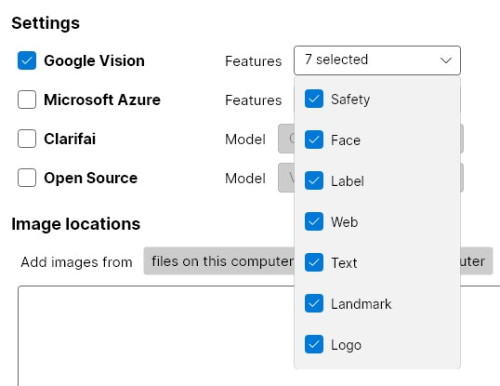
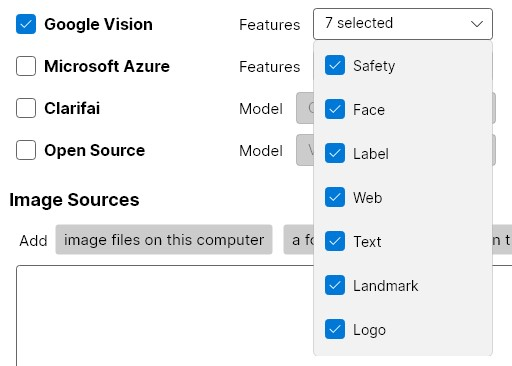
improved memory utilisation by not requiring all locations shown in textbox

diff --git a/Memespector-GUI/MainWindowViewModel.cs b/Memespector-GUI/MainWindowViewModel.cs
@@ -63,8 +63,8 @@ namespace Memespector_GUI
         private bool isOpenSourceEnabled = Utilities.MemespectorConfig.SelectedOpenSource;
         public bool IsOpenSourceEnabled { get => isOpenSourceEnabled; set => this.RaiseAndSetIfChanged(ref isOpenSourceEnabled, value); }
 
-        private string imageFileLocations = string.Empty;
-        public string ImageFileLocations { get => imageFileLocations; set => this.RaiseAndSetIfChanged(ref imageFileLocations, value); }
+        private string imageSources = string.Empty;
+        public string ImageSources { get => imageSources; set => this.RaiseAndSetIfChanged(ref imageSources, value); }
         private string outputJsonFileLocation = string.Empty;
         public string OutputJsonFileLocation { get => outputJsonFileLocation; set => this.RaiseAndSetIfChanged(ref outputJsonFileLocation, value); }
         private string outputCsvFileLocation = string.Empty;
@@ -102,9 +102,9 @@ namespace Memespector_GUI
             Utilities.WriteConfig(config);
         }
 
-        private void cleanimageFileLocationList()
+        private void cleanImageSourceList()
         {
-            ImageFileLocations = string.Join(Environment.NewLine, imageFileLocations.Split(Environment.NewLine).Select(l => l.Trim()).Distinct().Where(l => (Utilities.IsFilePath(l) || Utilities.IsUrl(l)) && !string.IsNullOrEmpty(l)));
+            ImageSources = string.Join(Environment.NewLine, imageSources.Split(Environment.NewLine).Select(l => l.Trim()).Distinct().Where(l => (Utilities.IsFilePath(l) || Utilities.IsFolderPath(l) || Utilities.IsUrl(l)) && !string.IsNullOrEmpty(l)));
         }
 
         private void doOpenExternal(string parameter)
@@ -119,7 +119,7 @@ namespace Memespector_GUI
         {
             if (parameter == "WebImages")
             {
-                Utilities.ShowInfoDialog("Add images from the web", $"Please copy the URLs of the images and paste them into the box.{Environment.NewLine + Environment.NewLine}Please put one URL per line.  You may press ENTER to create a new line.", Parent);
+                Utilities.ShowInfoDialog("Add images from the web", $"If you are going to add hundreds or even thousands of images from the web, please copy the URLs of the images and paste them into a text file (.txt).  Then, add the text file into the box using the 'a text file containing image locations' button.{Environment.NewLine + Environment.NewLine}If you are going to add tens of or just a few images from the web, please paste the URLs directly into the box.  Put one URL per line.  You may press ENTER to create a new line.", Parent);
             }
             else if (parameter == "About")
             {
@@ -288,11 +288,11 @@ namespace Memespector_GUI
                     }
                 }
 
-                cleanimageFileLocationList();
+                cleanImageSourceList();
 
-                var imageFileLocations = this.imageFileLocations.Split(Environment.NewLine).Where(l => !string.IsNullOrEmpty(l));
+                var effecitveImageLocations = getEffectiveImageLocations(this.imageSources.Split(Environment.NewLine));
 
-                if (!imageFileLocations.Any())
+                if (!effecitveImageLocations.Any())
                 {
                     Utilities.ShowErrorDialog("Image locations", "Please provide valid locations of image files on this computer or on the web.", Parent);
                     IsInputEnabled = true;
@@ -312,7 +312,7 @@ namespace Memespector_GUI
 
                 var gvTaskList = new List<CVImageTask>();
 
-                foreach (var fileLocation in imageFileLocations)
+                foreach (var fileLocation in effecitveImageLocations)
                 {
                     var gvTask = new CVImageTask() { ImageLocation = fileLocation };
 
@@ -404,6 +404,46 @@ namespace Memespector_GUI
             }
         }
 
+        private IEnumerable<string> getEffectiveImageLocations(IEnumerable<string> locations)
+        {
+            var effecitveLocationList = new List<string>();
+            var imageExtensions = CVClientCommon.SupportedFormats;
+
+            foreach (var location in locations)
+            {
+                if (string.IsNullOrEmpty(location))
+                    continue;
+
+                if (Utilities.IsFolderPath(location))
+                {
+                    if (!Directory.Exists(location))
+                        continue;
+
+                    var locationsInFolder = getEffectiveImageLocations(Directory.GetFiles(location, "*.*", SearchOption.AllDirectories).ToArray());
+                    effecitveLocationList.AddRange(locationsInFolder);
+                }
+                else if (Utilities.IsFilePath(location))
+                {
+                    if (!File.Exists(location))
+                        continue;
+
+                    if (location.ToLower().EndsWith(".txt"))
+                    {
+                        var locationsInFile = getEffectiveImageLocations(File.ReadAllLines(location));
+                        effecitveLocationList.AddRange(locationsInFile);
+                    }
+                    else if (imageExtensions.Any(ext => location.ToLower().EndsWith("." + ext)))
+                    {
+                        effecitveLocationList.Add(location);
+                    }
+                }
+                else if (Utilities.IsUrl(location))
+                    effecitveLocationList.Add(location); // IsURL must be the last case to be tested.  A file or folder path is also considered an absolute path.
+            }
+
+            return effecitveLocationList.Distinct();
+        }
+
 
         private async void doBrowseFile(string forProperty)
         {
@@ -434,25 +474,28 @@ namespace Memespector_GUI
             else if (forProperty.StartsWith("ImageFileLocations_"))
             {
                 var imageExtensions = CVClientCommon.SupportedFormats;
-                string[] files = new string[] { };
+                string[] localPaths = new string[] { };
 
                 if (forProperty.EndsWith("_Files"))
                 {
                     var openFileDialog = new OpenFileDialog() { Title = "Open image files", AllowMultiple = true, Filters = new List<FileDialogFilter> { new FileDialogFilter { Name = "Image", Extensions = imageExtensions } }, Directory = defaultDataPath };
-                    files = await openFileDialog.ShowAsync(Parent);
+                    localPaths = await openFileDialog.ShowAsync(Parent);
+                }
+                else if (forProperty.EndsWith("_Txt"))
+                {
+                    var openFileDialog = new OpenFileDialog() { Title = "Open a text file containing image locations", AllowMultiple = false, Filters = new List<FileDialogFilter> { new FileDialogFilter { Name = "Text", Extensions = new List<string>() { "txt" } } }, Directory = defaultDataPath };
+                    localPaths = await openFileDialog.ShowAsync(Parent);
                 }
                 else if (forProperty.EndsWith("_Folder"))
                 {
                     var openFolderDialog = new OpenFolderDialog() { Title = "Open a folder containing images", Directory = defaultDataPath };
-                    var folderPath = await openFolderDialog.ShowAsync(Parent);
-                    if (Directory.Exists(folderPath))
-                        files = Directory.GetFiles(folderPath, "*.*", SearchOption.AllDirectories).Where(f => imageExtensions.Any(ext => f.ToLower().EndsWith("." + ext))).ToArray();
+                    localPaths = new string[] { await openFolderDialog.ShowAsync(Parent) };
                 }
 
-                if (files.Any())
+                if (localPaths.Any())
                 {
-                    ImageFileLocations = string.Join(Environment.NewLine, files) + Environment.NewLine + ImageFileLocations;
-                    cleanimageFileLocationList();
+                    ImageSources = string.Join(Environment.NewLine, localPaths) + Environment.NewLine + ImageSources;
+                    cleanImageSourceList();
                 }
             }
         }

diff --git a/Memespector-GUI/MainWindow.axaml.cs b/Memespector-GUI/MainWindow.axaml.cs
@@ -28,7 +28,7 @@ namespace Memespector_GUI
                 if (viewModel.IsInvocationInProgress)
                 {
                     e.Cancel = true;
-                    var dialogChoice = await Utilities.ShowOkCancelDialog("Invocation in progress", $"The images are being processed.  You WILL LOSE ALL THE RESULTS if you quit the application now.{System.Environment.NewLine + System.Environment.NewLine}Press \"OK\" if you are sure want to quit the application.", this);
+                    var dialogChoice = await Utilities.ShowOkCancelDialog("Invocation in progress", $"The images are being processed.  Some of the images will not be processed if you quit the application now.{System.Environment.NewLine + System.Environment.NewLine}Press \"OK\" if you are sure want to quit the application.", this);
                     if (dialogChoice == MessageBox.Avalonia.Enums.ButtonResult.Ok)
                     {
                         System.Environment.Exit(0);

diff --git a/Memespector-GUI/Utilities.cs b/Memespector-GUI/Utilities.cs
@@ -81,6 +81,11 @@ namespace Memespector_GUI
             memespectorConfig = config;
         }
 
+        static public bool IsFolderPath(string filename)
+        {
+            return Directory.Exists(filename);
+        }
+
         static public bool IsFilePath(string filename)
         {
             return File.Exists(filename);

diff --git a/README.md b/README.md
@@ -138,13 +138,15 @@ The open source models are made available by machine learning library [Keras](ht
 
 ### Images on a computer
 
-Click `files on this computer`.  Select the image files.  Click `Open`.  The locations of the image files will be added to the `Image locations` box.
+Click `image files on this computer`.  Select the image files.  Click `Open`.  The locations of the image files will be added to the `Image Sources` box.
 
 ![Screenshot](doc/res/gui-win-individual-files.jpg)
 
 ![Screenshot](doc/res/gui-win-individual-file-locations.jpg)
 
-If you want to add all images inside a folder with many sub-folders which also contain images, click `a folder on this computer`.  Select the folder.  The locations of all image files inside the folder and its sub-folders will be added to the `Image locations` box.
+If you want to add all images inside a folder with many sub-folders which also contain images, click `a folder containing images on this computer`.  Select the folder.   The location of the folder will be added to the `Image Sources` box.
+
+*(Change of display behaviour from Version 0.2.3 beta: The full locations of image files inside the folder and sub-folders will NOT be displayed in the box.  However, the files will still be processed and do not need to be displayed in the box.  This change optimises memory utilisation.)*
 
 ![Screenshot](doc/res/gui-win-a-folder.jpg)
 
@@ -152,7 +154,17 @@ If you want to add all images inside a folder with many sub-folders which also c
 
 ### Images on the web
 
-Copy and paste the URLs of the images into the `Image locations` box.  Put one URL per line.
+If you are going to process hundreds or even thousands of URLs, paste the URLs into a text (.txt) file.  Put one URL per line.
+
+![Screenshot](doc/res/gui-web-urls-txt.jpg)
+
+![Screenshot](doc/res/gui-win-txt-file.jpg)
+
+Click `a text file containing image locations`.  Select the text file.  Click `Open`.  The location of the text file containing the URLs will be added to the `Image Sources` box.
+
+![Screenshot](doc/res/gui-win-a-txt-file-location.jpg)
+
+If you are going to just a few or tens of URLs, copy and paste the URLs of the images into the `Image Sources` box.  Put one URL per line.
 
 ![Screenshot](doc/res/gui-win-web-locations.jpg)
 
